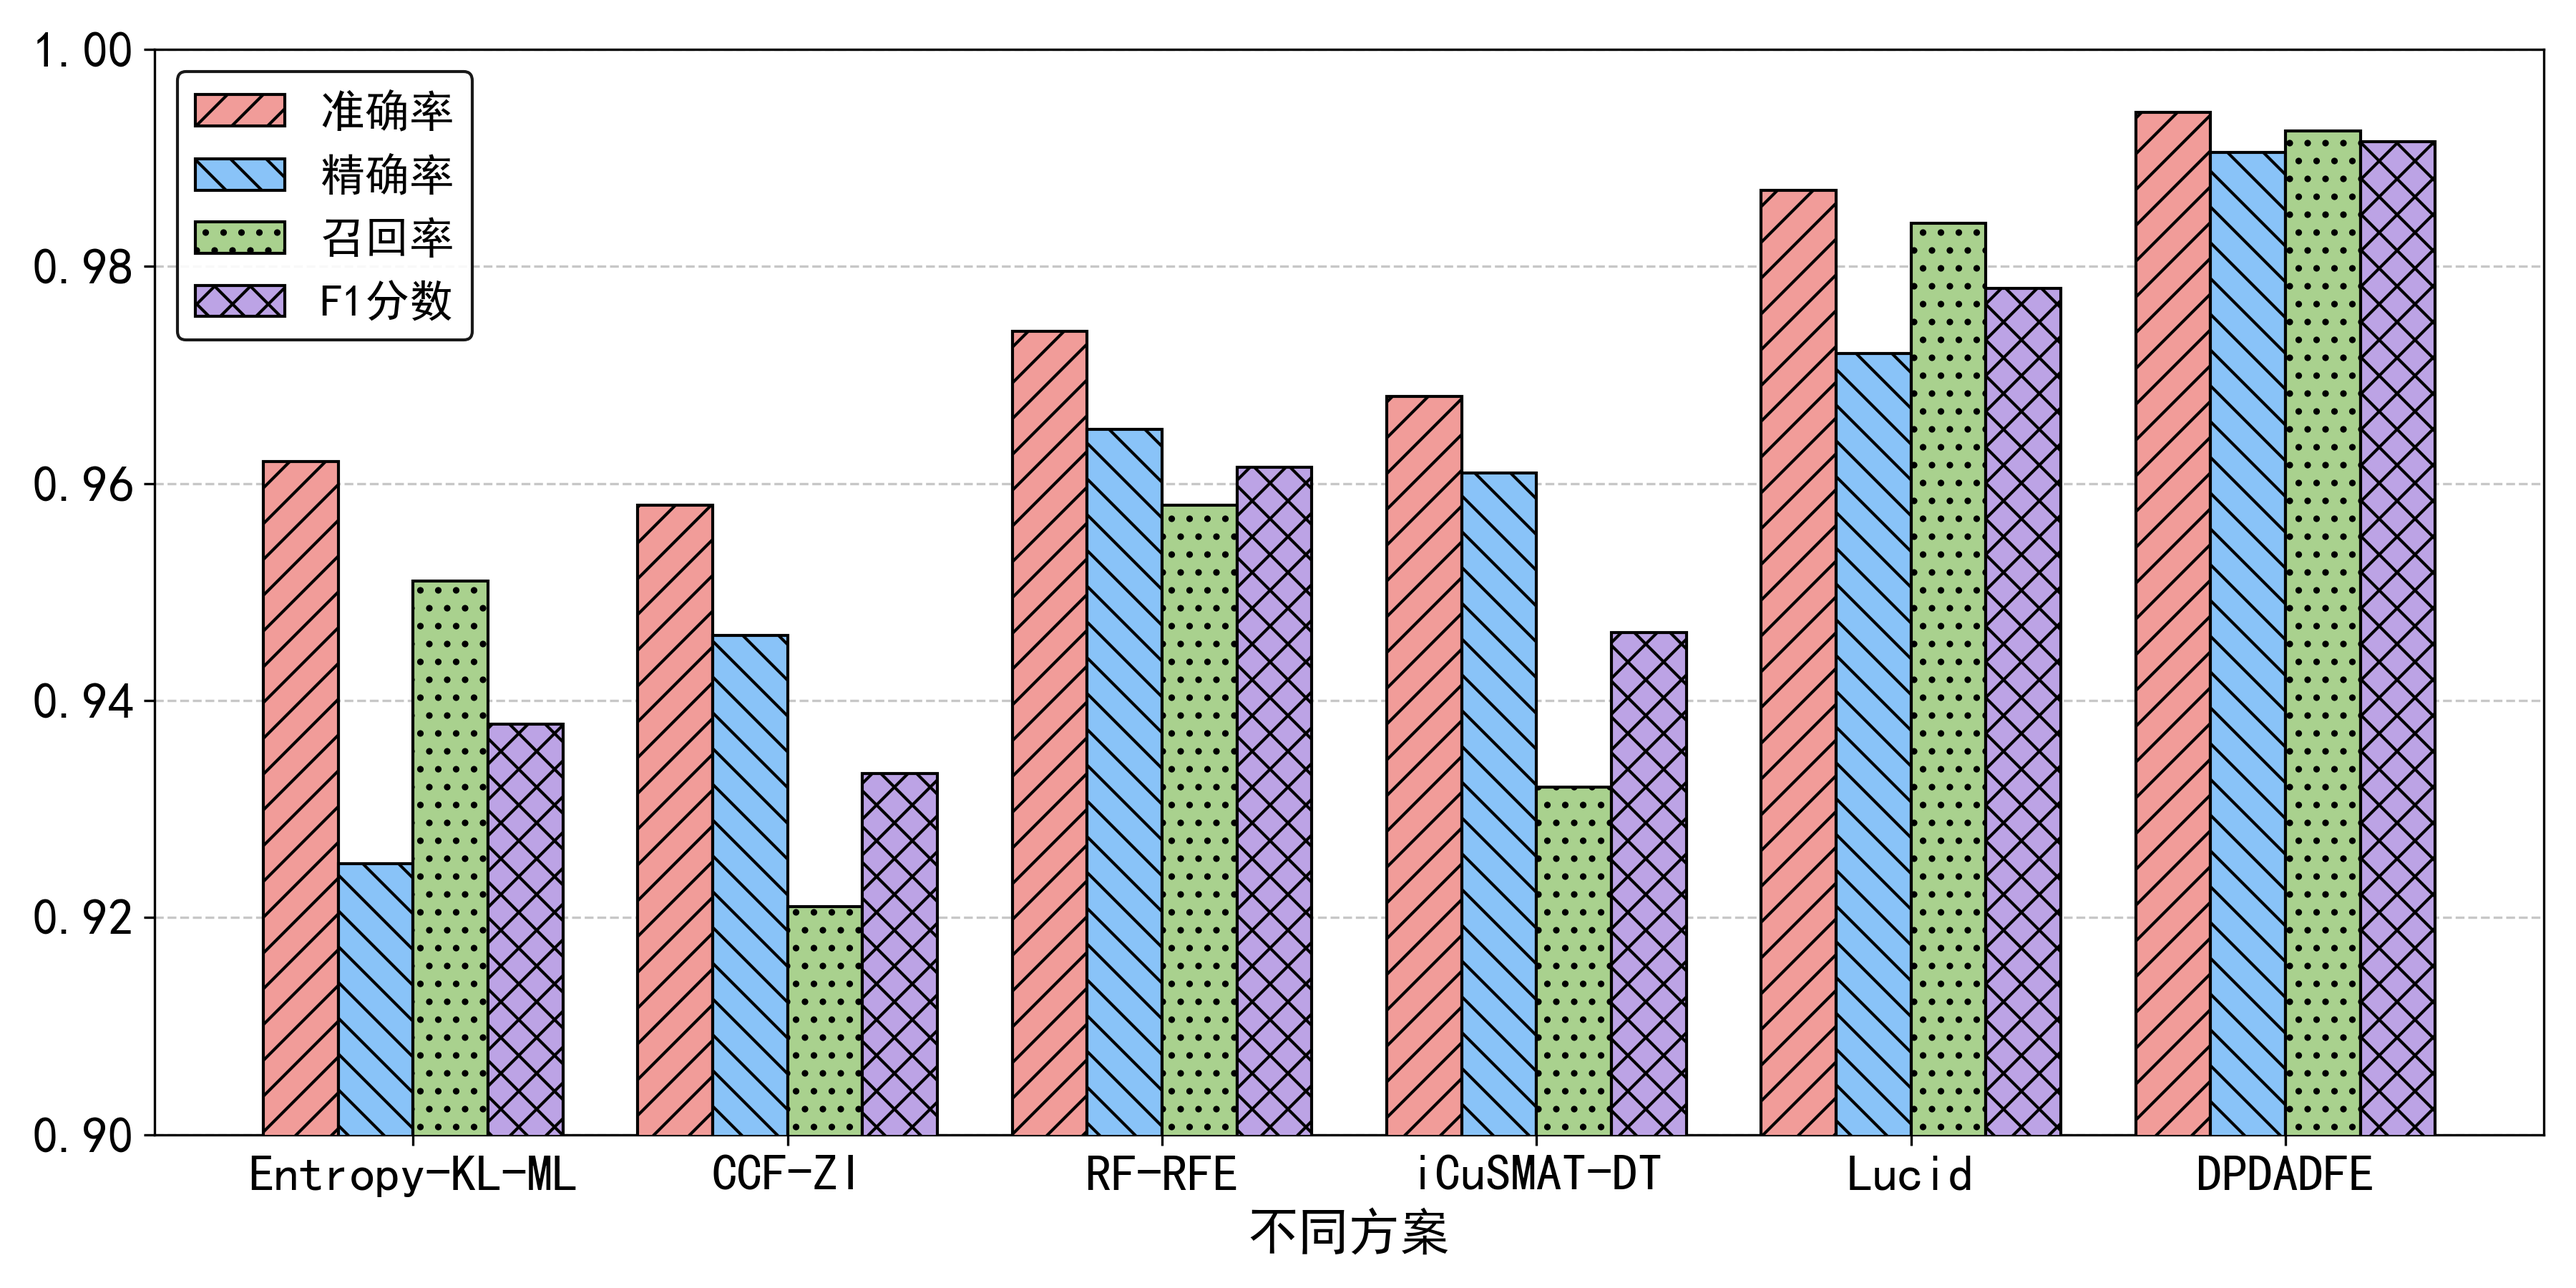
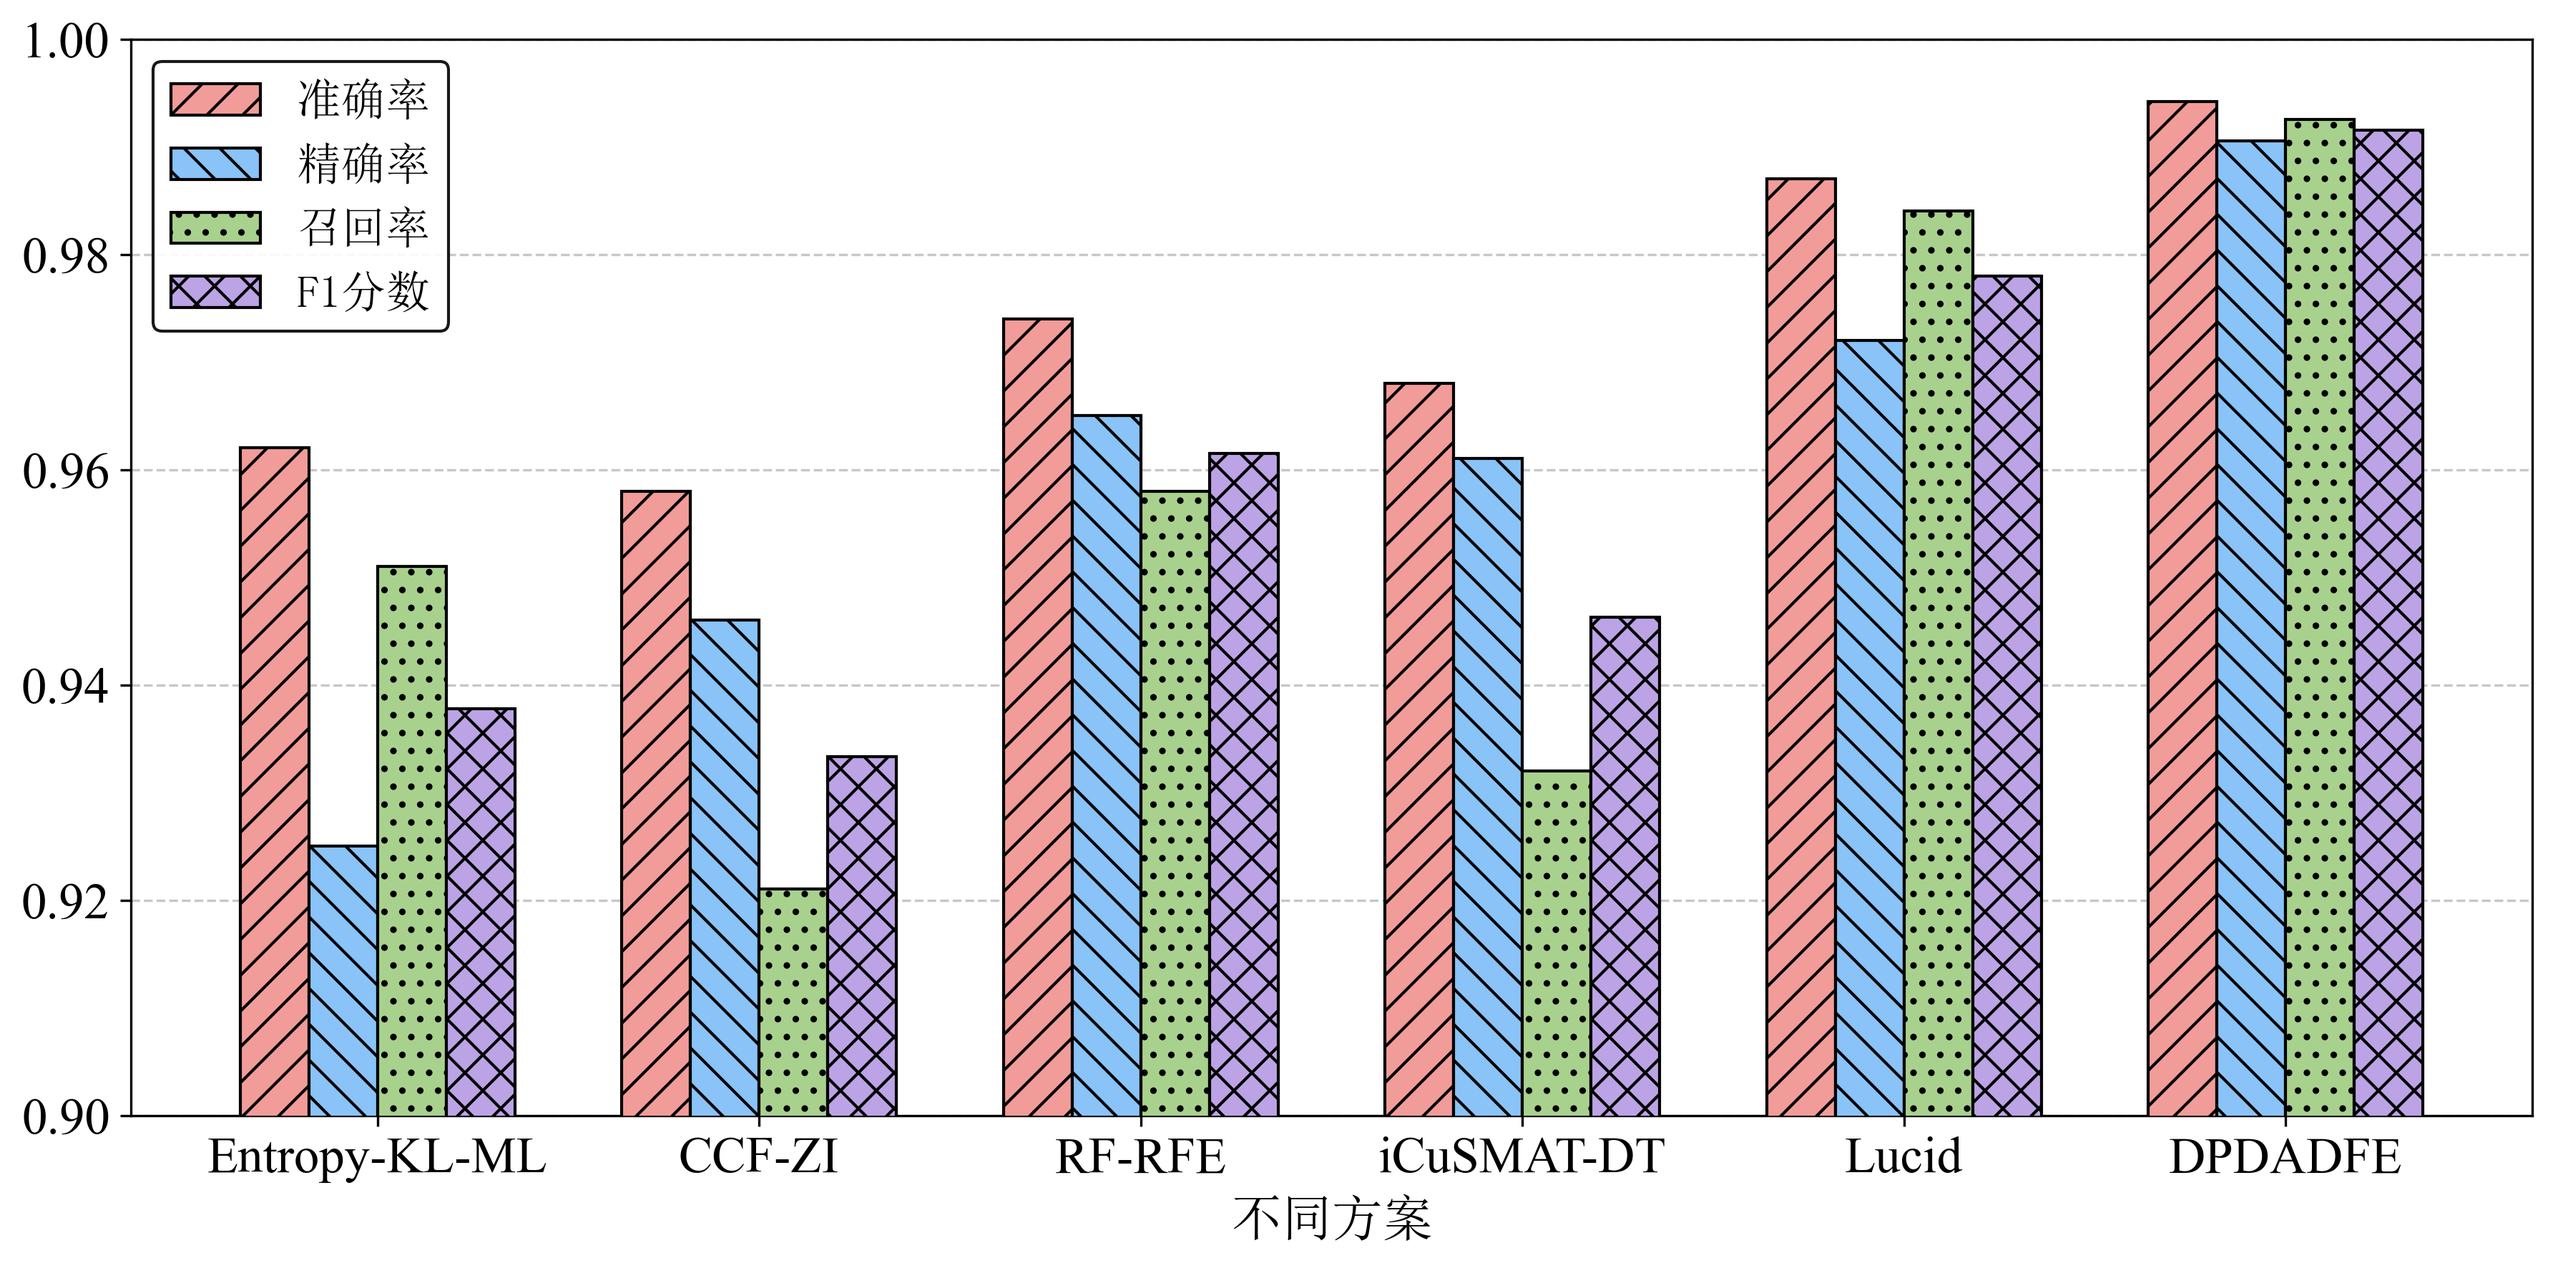
11

diff --git a/四指标对比.py b/四指标对比.py
@@ -1,61 +1,72 @@
 import matplotlib
-matplotlib.use('Agg') # 强制使用非交互式后端，防止 plt.show() 卡死报错
+matplotlib.use('Agg') # 强制使用非交互式后端
 import matplotlib.pyplot as plt
 import numpy as np
+from matplotlib import font_manager
+import os
 
-# 设置中文字体，防止中文显示为方块
-plt.rcParams['font.sans-serif'] = ['SimHei']  # Windows常用黑体
-plt.rcParams['axes.unicode_minus'] = False    # 正常显示负号
+# ==================== 1. 字体配置 (精准模式) ====================
+# 获取宋体文件路径
+font_path = r"C:\Windows\Fonts\simsun.ttc"
+if not os.path.exists(font_path):
+    font_path = r"C:\Windows\Fonts\simhei.ttf" # 备选黑体
 
-# 数据：准确率严格保持在各自四个指标中的最高位，降低了 DPDADFE 的数据使其更具真实感
+# 创建中文字体属性对象
+font_cn = font_manager.FontProperties(fname=font_path)
+
+# 全局默认字体设为 Times New Roman (负责所有的英文模型名、数字刻度)
+plt.rcParams['font.family'] = 'Times New Roman'
+plt.rcParams['axes.unicode_minus'] = False 
+
+# ==================== 2. 数据准备 (保持不变) ====================
 models = ['Entropy-KL-ML', 'CCF-ZI', 'RF-RFE', 'iCuSMAT-DT', 'Lucid', 'DPDADFE']
 accuracy = [0.9620, 0.9580, 0.9740, 0.9680, 0.9870, 0.9942]
 precision = [0.9250, 0.9460, 0.9650, 0.9610, 0.9720, 0.9905]
 recall = [0.9510, 0.9210, 0.9580, 0.9320, 0.9840, 0.9925]
 f1_score = [0.9378, 0.9333, 0.9615, 0.9463, 0.9780, 0.9915]
 
-# 颜色和底纹设置
 colors = ['#F19C99', '#89C3F8', '#A9D18E', '#BCA3E5']
 hatches = ['//', '\\\\', '..', 'xx']
 metrics_labels = ['准确率', '精确率', '召回率', 'F1分数']
 data_list = [accuracy, precision, recall, f1_score]
 
-# 设置柱子的宽度和X轴的位置
 x = np.arange(len(models))
-width = 0.2
+width = 0.18 # 稍微调窄一点点，防止柱子太挤
 
-# 创建画布
+# ==================== 3. 绘图执行 ====================
 fig, ax = plt.subplots(figsize=(12, 6))
 
-# 遍历绘制四组数据的柱状图
 for i in range(4):
     offset = (i - 1.5) * width 
     ax.bar(x + offset, data_list[i], width, 
-           label=metrics_labels[i], 
-           color=colors[i], 
-           hatch=hatches[i], 
-           edgecolor='black', 
-           linewidth=1,
-           zorder=3) # 保证柱子在网格线之上
+            label=metrics_labels[i], 
+            color=colors[i], 
+            hatch=hatches[i], 
+            edgecolor='black', 
+            linewidth=1,
+            zorder=3)
 
-# 设置图表标签和刻度
-ax.set_xlabel('不同方案', fontsize=17)
+# ==================== 4. 细节修饰与字体注入 ====================
+# 【字体注入】设置 X 轴中文标题为宋体
+ax.set_xlabel('不同方案', fontproperties=font_cn, fontsize=17)
+
+# 设置 X 轴刻度：模型名全是英文，会自动使用 Times New Roman
 ax.set_xticks(x)
-ax.set_xticklabels(models, fontsize=17)
+ax.set_xticklabels(models, fontsize=17) # 字号微调以适应长度
 
+# Y 轴数字刻度自动应用 Times New Roman
 ax.tick_params(axis='y', labelsize=17)
-
-# 设置Y轴范围：下限设置为 0.90 保持高低差异的视觉感，最高为 1.0
 ax.set_ylim(0.90, 1.0)
 
-# 添加网格线，zorder=0 保证网格线在柱子下方
 ax.grid(axis='y', linestyle='--', alpha=0.7, zorder=0)
 
-# 设置图例：将图例放在图内部的左上角 (upper left)
-ax.legend(loc='upper left', fontsize=15, framealpha=0.9, edgecolor='black')
+# 【字体注入】图例：包含中文指标名，需要显式指定宋体
+# 复制一份字体属性并设置字号
+font_cn_legend = font_cn.copy()
+font_cn_legend.set_size(15)
+ax.legend(loc='upper left', prop=font_cn_legend, framealpha=0.9, edgecolor='black')
 
-# 自动调整布局并保存图片到当前目录
 plt.tight_layout()
-plt.savefig('四指标对比.png', dpi=300)
+plt.savefig('四指标对比.png', dpi=300, bbox_inches='tight')
 
-print("图片已成功生成并保存为 '四指标对比.png'！")
+print("图片已成功生成，已应用宋体(中)与Times New Roman(英/数)！")

diff --git a/train_point2_dpgnet.py b/train_point2_dpgnet.py
@@ -85,31 +85,39 @@ class DynBranchGRU(nn.Module):
 
 # ================= 3. 核心架构：DPDADFE (含隐式丢弃修正) =================
 class DPG_Net(nn.Module):
-    def __init__(self, dist_drop_p=0.8): # 核心修改：非对称高强度丢弃
+    def __init__(self, dist_drop_p=0.8): 
         super(DPG_Net, self).__init__()
         self.dynamics_branch = DynBranchGRU(in_features=3, hidden_dim=16)
         self.dist_branch = DistBranchDCN(in_features=6, embed_dim=32, num_layers=2)
         
-        # 仅针对容易被篡改的统计分布特征施加高强度失活，逼迫网络依赖动力学特征
-        self.dist_dropout = nn.Dropout(p=dist_drop_p)
+        self.dist_drop_p = dist_drop_p
         
-        self.classifier = nn.Linear(48, 1) # 32 + 16 = 48
+        self.classifier = nn.Linear(48, 1) 
         self.sigmoid = nn.Sigmoid()
 
     def forward(self, x):
         out_dyn = self.dynamics_branch(x[:, 0:3])
         out_dist = self.dist_branch(x[:, 3:9])
         
-        # 施加非对称隐式特征丢弃
-        out_dist_dropped = self.dist_dropout(out_dist)
+        # ====== 核心修改：模态级隐式丢弃 (Modality Dropout) ======
+        # 严格对应论文：以概率 p 整体遮蔽易受篡改的分布表征流
+        if self.training:
+            # 生成形状为 (Batch, 1) 的掩码，确保同一批次样本的32维特征被同时保留或同时置0
+            mask = (torch.rand(out_dist.size(0), 1, device=out_dist.device) > self.dist_drop_p).float()
+            # 乘以 1/(1-p) 进行期望值补偿，保持前向传播尺度一致
+            out_dist_dropped = out_dist * mask / (1.0 - self.dist_drop_p)
+        else:
+            out_dist_dropped = out_dist
+        # ==========================================================
         
         h_concat = torch.cat((out_dyn, out_dist_dropped), dim=1)
         out = self.sigmoid(self.classifier(h_concat))
         return out
 
 # ================= PGD 攻击 (含物理约束修正) =================
-def pgd_attack(model, X, y, epsilon=0.8, alpha=0.1, num_iter=10):
-    print(f"\n>>> [对抗生成] 执行受物理约束的 PGD 算法 (epsilon={epsilon})...")
+def pgd_attack(model, X, y, epsilon=0.8, alpha=0.2, num_iter=20):
+    # 增加 num_iter=20 和 alpha=0.2，确保对抗噪声足以将分布特征推入 ReLU 的死区(Dead Zone)
+    print(f"\n>>> [对抗生成] 执行受物理约束的高强度 PGD 算法 (epsilon={epsilon})...")
     torch.backends.cudnn.enabled = False
     model.eval()
     
@@ -135,9 +143,7 @@ def pgd_attack(model, X, y, epsilon=0.8, alpha=0.1, num_iter=10):
         
         with torch.no_grad():
             adv_step = alpha * X_adv.grad.sign()
-            
-            # 核心物理约束：前3维为动力学特征(速率与抖动)，攻击者无法随意篡改而不损失攻击效用
-            # 强制将这3维的对抗扰动梯度置零
+            # 物理约束：禁止篡改前3维动力学特征
             adv_step[:, 0:3] = 0
             
             X_adv = X_adv + adv_step
